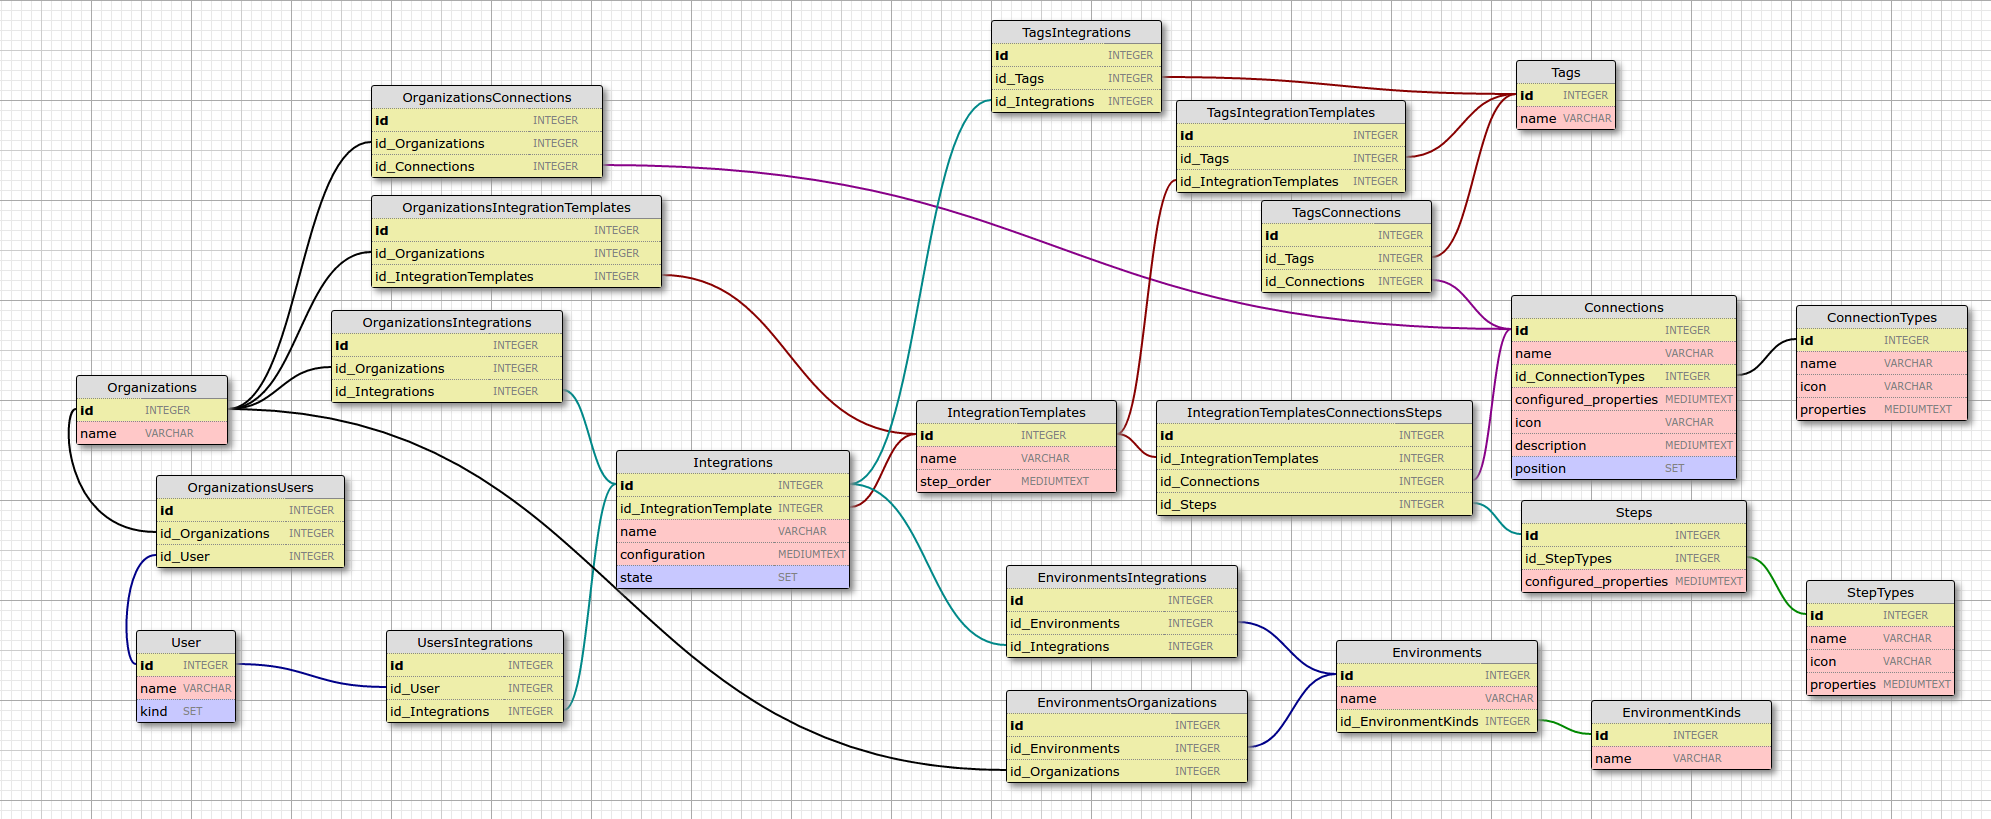
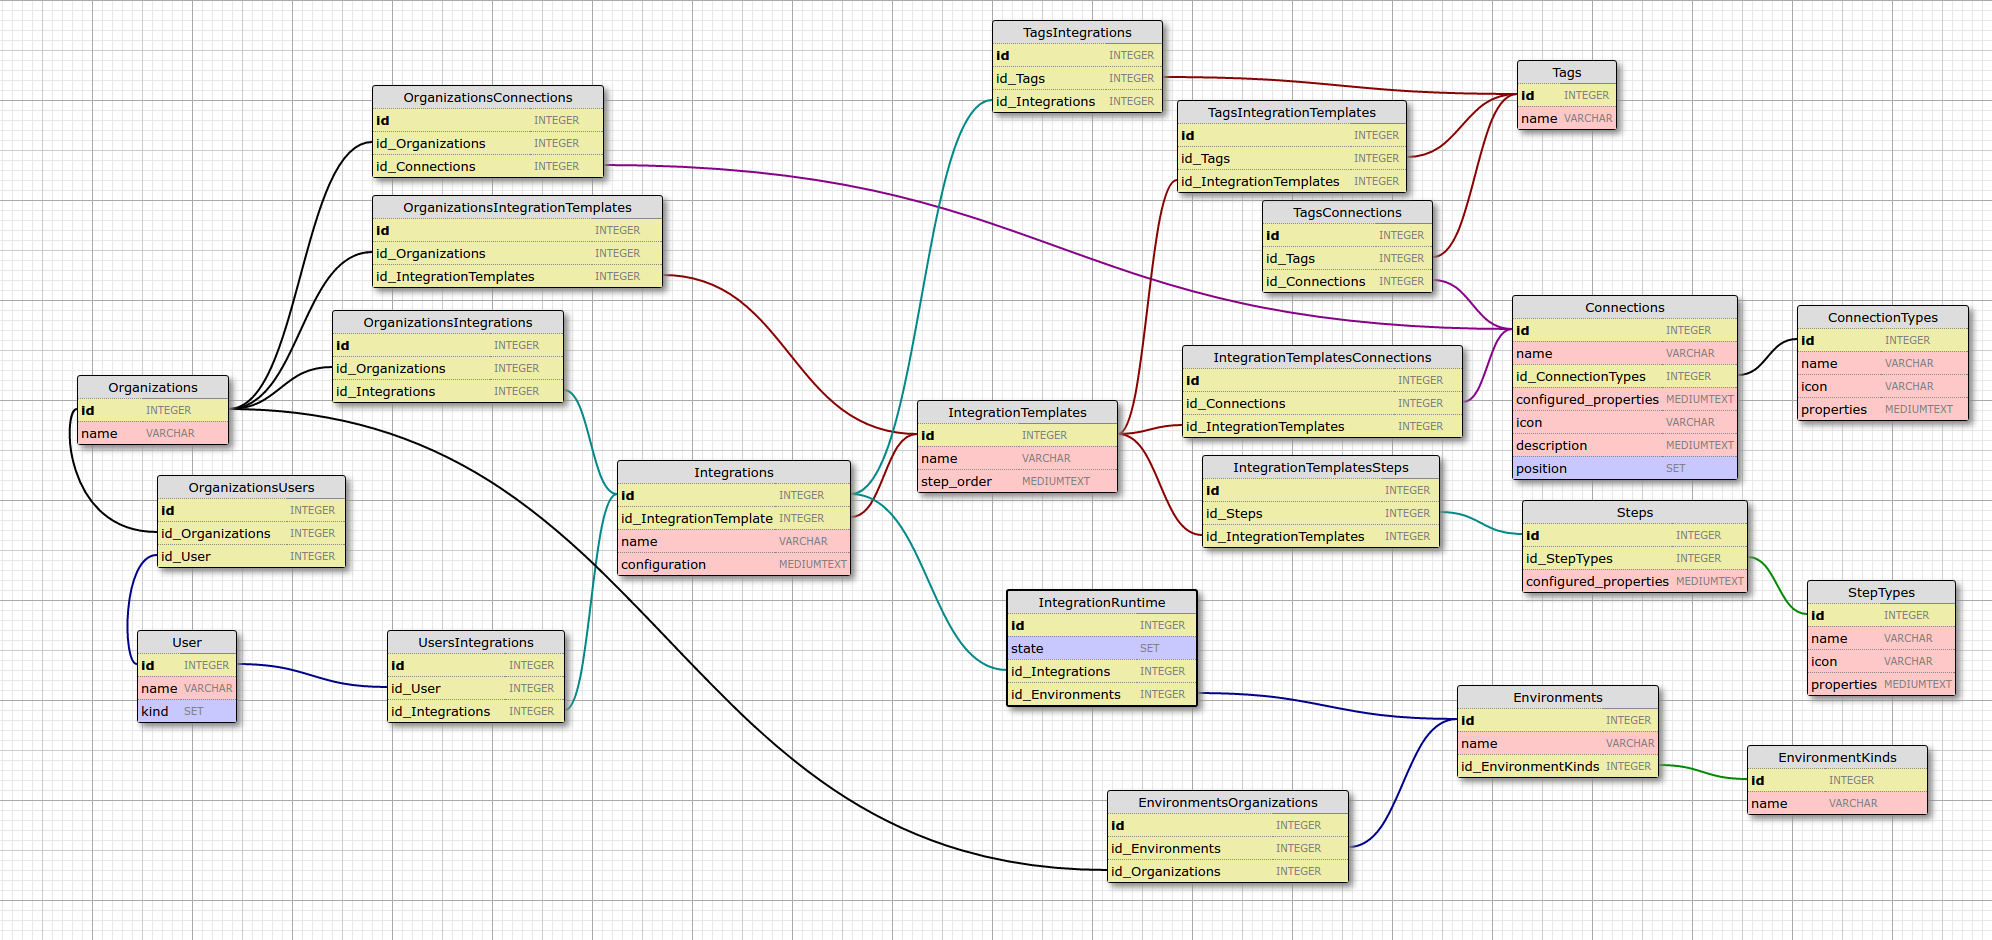
Start implementing the associations in sequelize, and figure out where I've gone horribly wrong :-)

diff --git a/src/models/index.js b/src/models/index.js
@@ -3,6 +3,7 @@
 // ---------------------- Dependencies & Setup ---->>
 
 var Sequelize = require('sequelize');
+var _ = require('lodash');
 
 //console.log('Initializing database connection with Sequelize...');
 
@@ -48,21 +49,20 @@ function Models() {
           // console.log('File: ' + JSON.stringify(file));
 
           var model = sequelize.import(path.join(__dirname, eachDir, file));
-          db[model.name] = model;
+          models[model.name] = model;
         });
-
     });
-
-    setTimeout(function() {
-      Object.keys(models).forEach(function(modelName) {
-        if ('associate' in models[modelName]) {
-          db[modelName].associate(models);
-        }
-      });
-    }, 2000);
-
+    console.log("Models: ", models);
+    _.forOwn(models, function (model, name) {
+      if ('associate' in model) {
+        console.log("Calling associate for model: ", name);
+        model.associate(models);
+        model.sync().then(function() {
+          console.log(name + " synced");
+        });
+      }
+    });
   }
-
   return db;
 }
 

diff --git a/src/models/Integration/sequelize.js b/src/models/Integration/sequelize.js
@@ -7,15 +7,19 @@ module.exports = function(sequelize, DataTypes) {
     },
     configuration: {
       type: DataTypes.TEXT
-    },
-    state: {
-      type: DataTypes.ENUM,
-      // TODO define these
-      values: ['draft', 'running', 'stopped', 'error']
     }
   }, {
     classMethods: {
-      associate: function(models) {}
+      associate: function(models) {
+        const Integration = models['Integration'];
+        const IntegrationRuntime = models['IntegrationRuntime'];
+        const IntegrationTemplate = models['IntegrationTemplate'];
+        const Tag = models['Tag'];
+        Integration.hasMany(IntegrationRuntime);
+        Integration.hasOne(IntegrationTemplate);
+        Tag.belongsToMany(Integration, { through: 'TagsIntegrations' });
+        Integration.hasMany(Tag);
+      }
     }
   }, {
     // Enable timestamps

diff --git a/src/models/IntegrationRuntime/sequelize.js b/src/models/IntegrationRuntime/sequelize.js
@@ -1,0 +1,24 @@
+// IntegrationRuntime model
+module.exports = function(sequelize, DataTypes) {
+  return sequelize.define('IntegrationRuntime', {
+    state: {
+      type: DataTypes.ENUM,
+      // TODO define these
+      values: ['draft', 'running', 'stopped', 'error']
+    }
+  }, {
+    classMethods: {
+      associate: function(models) {
+        const IntegrationRuntime = models['IntegrationRuntime'];
+        const Environment = models['Environment'];
+        IntegrationRuntime.hasOne(Environment);
+      }
+    }
+  }, {
+    // Enable timestamps
+    timestamps: true
+  }, {
+    getterMethods: {},
+    setterMethods: {}
+  });
+};

diff --git a/src/models/IntegrationTemplate/sequelize.js b/src/models/IntegrationTemplate/sequelize.js
@@ -10,7 +10,16 @@ module.exports = function(sequelize, DataTypes) {
     }
   }, {
     classMethods: {
-      associate: function(models) {}
+      associate: function(models) {
+        const IntegrationTemplate = models['IntegrationTemplate'];
+        const Connection = models['Connection'];
+        const Step = models['Step'];
+        const Tag = models['Tag'];
+        IntegrationTemplate.hasMany(Connection);
+        IntegrationTemplate.hasMany(Step);
+        Tag.belongsToMany(IntegrationTemplate, { through: 'TagsIntegrationTemplates' });
+        IntegrationTemplate.hasMany(Tag);
+      }
     }
   }, {
     // Enable timestamps

diff --git a/src/models/Environment/sequelize.js b/src/models/Environment/sequelize.js
@@ -7,7 +7,13 @@ module.exports = function(sequelize, DataTypes) {
     }
   }, {
     classMethods: {
-      associate: function(models) {}
+      associate: function(models) {
+        const Environment = models['Environment'];
+        const EnvironmentKind = models['EnvironmentKind'];
+        const Organization = models['Organization'];
+        Environment.belongsToMany(Organization, { through: 'EnvironmentsOrganizations' });
+        Environment.hasOne(EnvironmentKind, { as: 'Type' });
+      }
     }
   }, {
     // Enable timestamps

diff --git a/src/models/Connection/sequelize.js b/src/models/Connection/sequelize.js
@@ -20,7 +20,14 @@ module.exports = function(sequelize, DataTypes) {
     }
   }, {
     classMethods: {
-      associate: function(models) {}
+      associate: function(models) {
+        const Connection = models['Connection'];
+        const ConnectionType = models['ConnectionType'];
+        const Tag = models['Tag'];
+        Connection.hasOne(ConnectionType, { as: 'Type' });
+        Tag.belongsToMany(Connection, { through: 'TagsConnections' });
+        Connection.hasMany(Tag);
+      }
     }
   }, {
     // Enable timestamps

diff --git a/src/models/User/sequelize.js b/src/models/User/sequelize.js
@@ -27,7 +27,12 @@ module.exports = function(sequelize, DataTypes) {
   }, {
     classMethods: {
       associate: function(models) {
-        History.belongsTo(models.User);
+        const User = models['User'];
+        const Organization = models['Organization'];
+        const Integration = models['Integration'];
+        User.belongsToMany(Organization, { through: 'OrganizationUsers' });
+        // Organization.hasMany(User);
+        User.hasMany(Integration);
       }
     }
   }, {

diff --git a/src/models/Organization/sequelize.js b/src/models/Organization/sequelize.js
@@ -7,7 +7,13 @@ module.exports = function(sequelize, DataTypes) {
     }
   }, {
     classMethods: {
-      associate: function(models) {}
+      associate: function(models) {
+        const Organization = models['Organization'];
+        const Connection = models['Connection'];
+        const IntegrationTemplate = models['IntegrationTemplate'];
+        Organization.hasMany(Connection);
+        Organization.hasMany(IntegrationTemplate);
+      }
     }
   }, {
     // Enable timestamps

diff --git a/src/models/Tag/sequelize.js b/src/models/Tag/sequelize.js
@@ -7,7 +7,7 @@ module.exports = function(sequelize, DataTypes) {
     }
   }, {
     classMethods: {
-      associate: function(models) {}
+      associate: function(models) { }
     }
   }, {
 

diff --git a/docs/entities.md b/docs/entities.md
@@ -7,18 +7,19 @@ We are in the process of creating a diagram (see below) for the Entity Relations
     - has many Connections
     - has many Integration Templates
     - has many Users
-    - has many Environments
 - User
     - has a name
-    - has many Organizations
+    - belongs to many Organizations
     - has many Integrations
 - Integration
     - has a name
     - has a configuration
-    - has a state
-    - refers to an Integration Template
+    - has an Integration Template
+    - has many IntegrationRuntimes
     - has many Tags
-    - has many Environments
+- IntegrationRuntime
+    - has a state
+    - has an Environment
 - Integration Template
     - has a name
     - has a step order
@@ -27,11 +28,11 @@ We are in the process of creating a diagram (see below) for the Entity Relations
     - has many Tags
 - Connection
     - has a name
-    - refers to a Connection Type
+    - has an icon
     - has configured properties
     - has a position
     - has a description
-    - has an icon
+    - has a ConnectionType
     - has many Tags
 - Connection Type
     - has a name
@@ -47,10 +48,11 @@ We are in the process of creating a diagram (see below) for the Entity Relations
 - Environment
     - has a name
     - has an EnvironmentKind
-    - has many Integrations
-    - has many Organizations
+    - belongs to many Organizations
 - EnvironmentKind
     - has a name
+- Tag
+  - has a name
 
 
 <!-- TODO wanna keep this handy for now
